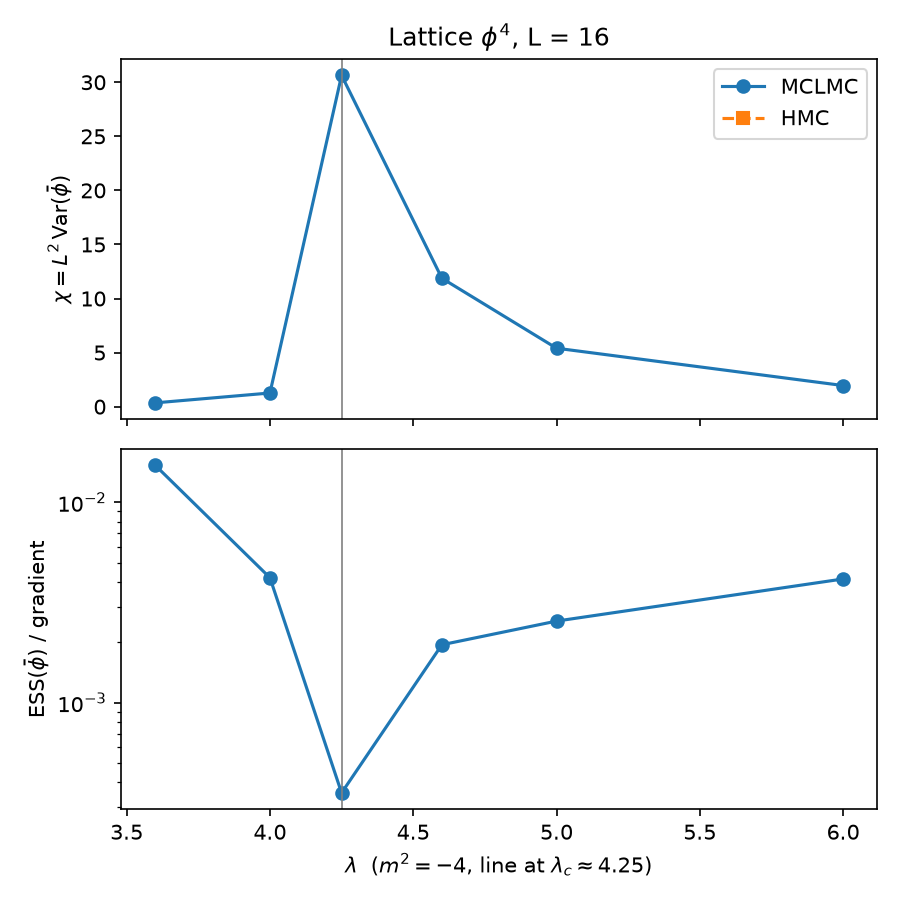
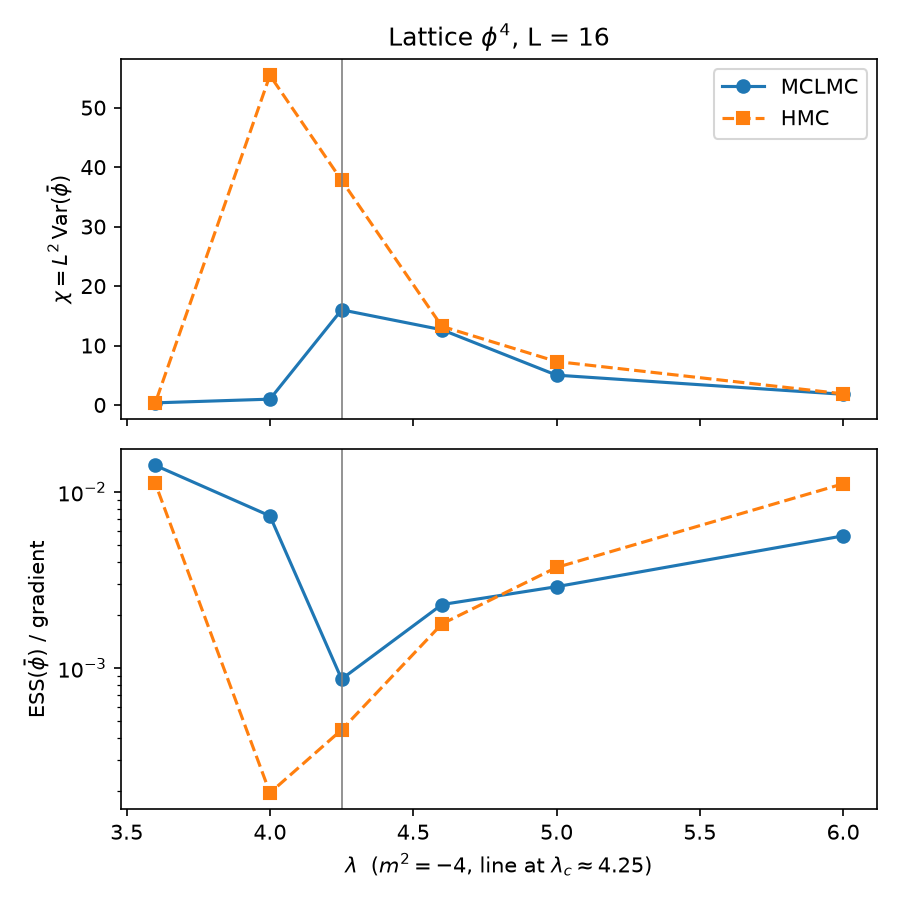
10-16

diff --git a/agentic/06_statistics/plot.py b/agentic/06_statistics/plot.py
@@ -3,19 +3,22 @@ ESS per gradient (from the autocorrelation of phibar) vs lambda."""
 import numpy as np, matplotlib.pyplot as plt
 from mclmc import MCLMC, make_phi4, integrated_autocorr_time
 
-Lsize, n = 16, 5000
+Lsize, n = 32, 10000
 lams = [6.0, 5.0, 4.6, 4.25, 4.0, 3.6]          # annealed from high to low
 rng = np.random.default_rng(0)
 
-def hmc(f, x, n, num_steps=20, eps=0.1, warmup=500):
+def hmc(f, x, n, num_steps=20, eps=0.02, warmup=500):
     lp, g = f(x); out, grads = [], 0
     for t in range(warmup + n):
         p = rng.standard_normal(x.size); H0 = -lp + 0.5 * p @ p
         xn, gn, pn = x, g, p + 0.5 * eps * g
-        for i in range(num_steps):
-            xn = xn + eps * pn; lpn, gn = f(xn)
-            pn = pn + (eps if i < num_steps - 1 else 0.5 * eps) * gn
-        acc = min(1, np.exp(H0 - (-lpn + 0.5 * pn @ pn)))
+        with np.errstate(all="ignore"):   # a too-large step can blow up phi^4
+            for i in range(num_steps):
+                xn = xn + eps * pn; lpn, gn = f(xn)
+                if not np.isfinite(lpn): break
+                pn = pn + (eps if i < num_steps - 1 else 0.5 * eps) * gn
+            H1 = -lpn + 0.5 * pn @ pn
+            acc = min(1.0, np.exp(H0 - H1)) if np.isfinite(H1) else 0.0  # diverged: reject
         if rng.random() < acc: x, lp, g = xn, lpn, gn
         if t < warmup: eps *= np.exp((acc - 0.8) / (t + 1) ** 0.6)  # tune step
         else: out.append(x.mean()); grads += num_steps
@@ -41,4 +44,4 @@ a1.set_ylabel(r"$\chi = L^2\,\mathrm{Var}(\bar\phi)$"); a1.legend()
 a2.set_ylabel(r"ESS($\bar\phi$) / gradient"); a2.set_yscale("log")
 a2.set_xlabel(r"$\lambda$  ($m^2=-4$, line at $\lambda_c\approx4.25$)")
 a1.set_title(f"Lattice $\\phi^4$, L = {Lsize}")
-fig.tight_layout(); fig.savefig("comparison_L16.png", dpi=150)
+fig.tight_layout(); fig.savefig("comparison_L32.png", dpi=150)
